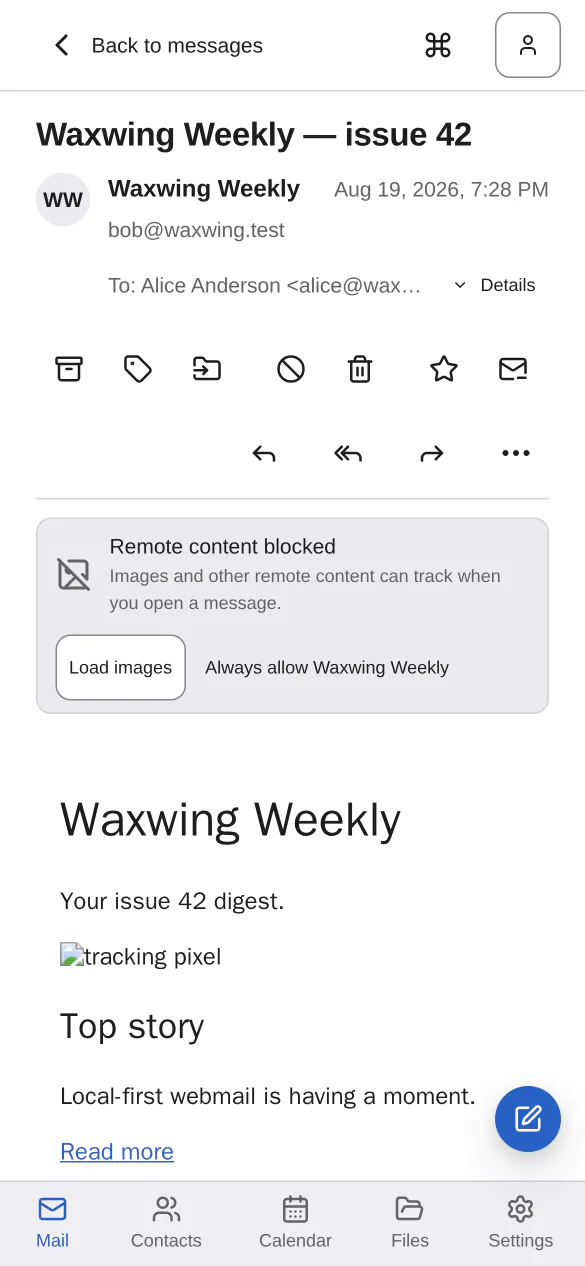
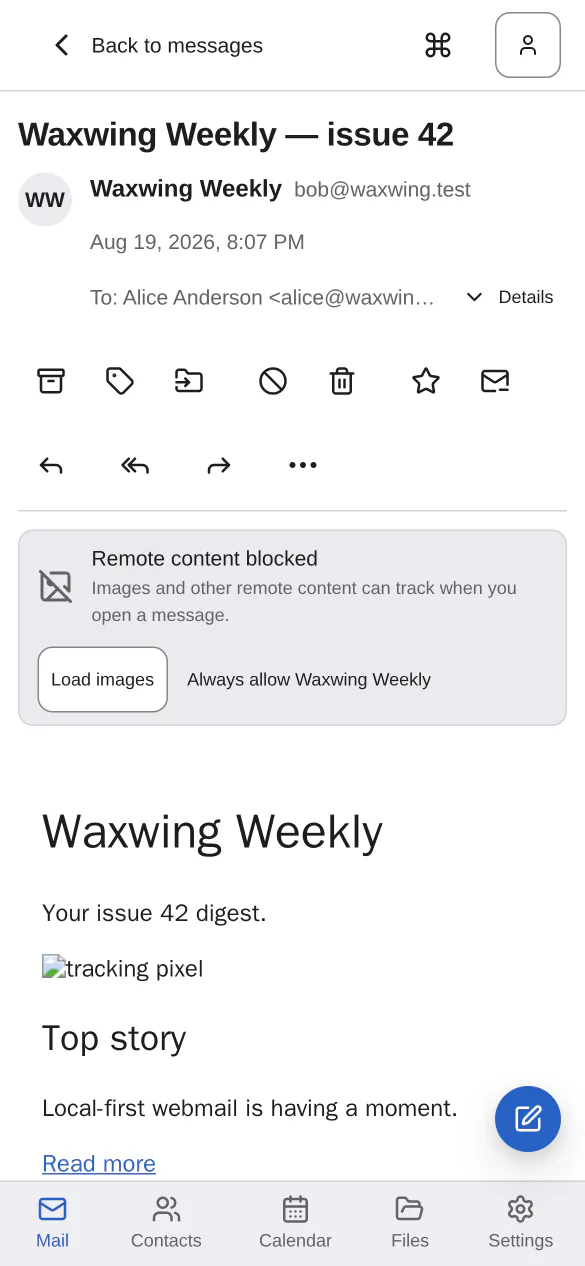
fix(web): ask how wide the PANE is, not how wide the window is
The owner asked that the phone and tablet views be checked too, not just the desktop. Photographing
a tablet for the first time — 834×1112, added to the screenshot suite as a third project — found two
defects that had been shipping unseen, and both have the same root: rules that describe a NARROW
READING PANE were keyed to a narrow VIEWPORT, and on a split layout those have never been the same
question. At 834px the reading pane is under 300px while the viewport is nowhere near a phone.

  - **The sender name broke letter by letter**: "Wax / wing / Week / ly", and the address under it
    as "bob@ / waxwi / ng.test". `overflow-wrap: anywhere` does not merely permit a mid-word break,
    it reports a min-content width of ONE CHARACTER — so the date beside it, which is
    `flex-shrink: 0`, squeezed the name into a column of letters. `break-word` keeps the longest
    word as the minimum, which is what makes a line wrap like a line. The date wraps under the name
    now rather than competing for it.
  - **The action bar took three rows.** The rule that tightens it existed and was behind
    `max-width: 39.999em`, so it fired on a phone and stayed idle on a tablet whose pane is just as
    narrow. `.paneBody` is a query container now and the reading rules ask it, so they apply to a
    narrow pane on any screen — including a 1440px desktop with the splitter dragged over, which is
    what the splitter is for. Three rows became 5 + 5 + 1.
[…]

diff --git a/apps/web/src/mail/reading.module.css b/apps/web/src/mail/reading.module.css
@@ -33,9 +33,10 @@
   overflow-wrap: break-word;
 }
 
-/* On a phone, 28 px of subject takes two lines and 95 px of a 640 px screen before the mail starts.
-   One step down is still unmistakably the headline. */
-@media (max-width: 40em) {
+/* Below ~30rem of PANE, 28px of subject takes two lines before the mail starts. One step down is
+   still unmistakably the headline — and it now applies to a narrow pane on any screen, not just to
+   a narrow screen. */
+@container waxwing-pane (max-width: 30rem) {
   .subject {
     font-size: var(--waxwing-text-xl);
   }
@@ -138,6 +139,10 @@
   justify-content: space-between;
   gap: var(--waxwing-space-3);
   align-items: baseline;
+  /* The date is `flex-shrink: 0` and, spelled out, takes most of a narrow pane's width. Allowed to
+     wrap under the name, it stops competing for the same line — a tablet's reading pane is about
+     420px, and "Aug 19, 2026, 7:39 PM" is half of it. */
+  flex-wrap: wrap;
 }
 
 /* Name, real address and (rarely) the impersonation marker, on one wrapping baseline run. */
@@ -149,10 +154,20 @@
   min-width: 0;
 }
 
+/*
+ * `break-word`, NOT `anywhere`, and the difference is the whole bug.
+ *
+ * Both break inside a word when one would otherwise overflow. But `anywhere` also reports a
+ * min-content width of a single character, so any flex sibling that refuses to shrink — here the
+ * date, which is `flex-shrink: 0` — can squeeze this box down to a column of letters. Photographed
+ * on a tablet (834px, tablet-reading.webp): "Waxwing Weekly" came out as "Wax / wing / Week / ly"
+ * and the address below it as "bob@ / waxwi / ng.test". `break-word` keeps the longest word as the
+ * minimum, which is what makes the line wrap like a line.
+ */
 .from {
   font-weight: var(--waxwing-weight-semibold);
   color: var(--waxwing-text);
-  overflow-wrap: anywhere;
+  overflow-wrap: break-word;
 }
 
 /*
@@ -182,7 +197,9 @@
 .fromAddress {
   font-size: var(--waxwing-text-sm);
   color: var(--waxwing-text-muted);
-  overflow-wrap: anywhere;
+  /* See `.from`: an address is one long word, and `anywhere` would let it be shredded rather than
+     wrapped. A genuinely over-long address still breaks, which is what `break-word` is for. */
+  overflow-wrap: break-word;
 }
 
 /*
@@ -286,20 +303,37 @@
 }
 
 /*
- * Tighter on a phone, because the grouping is a RATIO, not a pair of fixed numbers.
+ * Tighter in a narrow PANE, because the grouping is a RATIO, not a pair of fixed numbers.
  *
- * 16 px between groups and 4 px within reads well at 420 px of pane; at 390 px of viewport it cost a
- * third row — three strips of icons is worse than the two ungrouped ones it replaced. 12 px against
- * 2 px keeps the same visual relationship (six times, rather than four) and brings the six filing
- * and state actions back onto one line, with the reply group on the next.
+ * 16px between groups and 4px within reads well at 420px of pane; below that it costs a third row —
+ * three strips of icons is worse than the two ungrouped ones it replaced. 12px against 2px keeps
+ * the same visual relationship (six times, rather than four) and brings the six filing and state
+ * actions back onto one line, with the reply group on the next.
+ *
+ * Keyed to the container rather than the viewport since 2026-08-19: as a viewport rule it fired on
+ * a phone and NOT on a tablet, whose reading pane is just as narrow — which is precisely the case
+ * the tablet screenshot caught.
  */
-@media (max-width: 39.999em) {
+@container waxwing-pane (max-width: 30rem) {
+  /* 24px of margin on each side is a quarter of a narrow pane. */
+  .conversation {
+    padding-inline: var(--waxwing-space-3);
+  }
+
   .actionBar {
     gap: var(--waxwing-space-3);
   }
 
   .actionGroup {
     gap: var(--waxwing-space-hair);
+  }
+
+  /* The spacer holds the reply group against the far edge, which is right when everything fits on
+     one line and wrong the moment it does not: as a flex item that grows, it takes the whole
+     remainder of the first row and pushes the reply group onto a row of its own — a third strip of
+     icons. Below this width the groups simply run on, separated by their own gap. */
+  .actionSpacer {
+    display: none;
   }
 }
 

diff --git a/e2e/shots/tablet.spec.ts b/e2e/shots/tablet.spec.ts
@@ -1,0 +1,41 @@
+import { expect, test } from '@playwright/test'
+import { READ_SUBJECTS, seedReadMail } from '../stalwart/seed-read.mjs'
+import { shot, signIn, waitForBody, waitForCorpus } from './capture'
+
+/*
+ * Tablet project-site screenshots (834×1112 @2×). See playwright.shots.config.ts.
+ *
+ * WHY A THIRD VIEWPORT. 834px is the one width where BOTH shell breakpoints have fired in
+ * different directions: it is past 40em, so the primary navigation is the icon rail rather than a
+ * bottom bar, but short of 64em, so the folder region is still an off-canvas drawer. Neither the
+ * desktop nor the phone run photographs that combination, and it is the layout an iPad in portrait
+ * actually gets — which made it the one shape nobody was looking at.
+ *
+ * `viewports.spec.ts` already asserts that nothing overflows here. That is a different question
+ * from whether it looks right, and only a picture answers the second one.
+ */
+
+test.beforeEach(async () => {
+  await seedReadMail()
+})
+
+test('reading a message', async ({ page }) => {
+  await signIn(page)
+  // The rail is a drawer at this width, so the inbox has to be opened through the toggle — the
+  // same path a reader takes, and the reason this shot is not a narrower copy of the desktop one.
+  await page.getByRole('button', { name: 'Show folders' }).click()
+  await page.getByRole('treeitem', { name: /Inbox/ }).click()
+  await waitForCorpus(page, READ_SUBJECTS.plain)
+
+  await page.getByText(READ_SUBJECTS.newsletter, { exact: true }).click()
+  await expect(page.getByRole('heading', { name: READ_SUBJECTS.newsletter })).toBeVisible()
+  await waitForBody(page, READ_SUBJECTS.newsletter, 'Top story')
+  await shot(page, 'tablet-reading')
+})
+
+test('the folder drawer', async ({ page }) => {
+  await signIn(page)
+  await page.getByRole('button', { name: 'Show folders' }).click()
+  await expect(page.getByRole('navigation', { name: 'Folders' })).toBeVisible()
+  await shot(page, 'tablet-folders')
+})

diff --git a/e2e/playwright.shots.config.ts b/e2e/playwright.shots.config.ts
@@ -52,6 +52,20 @@ export default defineConfig({
       },
     },
     {
+      // 834×1112 — an iPad in portrait, and the only width where the two shell breakpoints
+      // disagree: past 40em (icon rail, not a bottom bar) and short of 64em (folder rail still a
+      // drawer). Neither of the other two projects photographs that combination.
+      name: 'tablet',
+      testMatch: '**/tablet.spec.ts',
+      use: {
+        ...devices['Desktop Chrome'],
+        viewport: { width: 834, height: 1112 },
+        deviceScaleFactor: 2,
+        isMobile: true,
+        hasTouch: true,
+      },
+    },
+    {
       // The phone shots are the point of this run. 390×844 is the iPhone 14/15 class viewport the
       // swipe suite already uses, and it sits below BOTH shell breakpoints (40em icon rail,
       // 64em persistent folder rail), so it photographs the bottom-nav-plus-drawer layout rather

diff --git a/apps/web/src/app/shell/shell.module.css b/apps/web/src/app/shell/shell.module.css
@@ -423,7 +423,19 @@
   background-color: var(--waxwing-surface);
 }
 
+/*
+ * A QUERY CONTAINER for whatever the pane holds. What the list and the reading view need to know is
+ * how wide THEY are, and on a split layout that has never been the window's width: at 834px the
+ * reading pane is under 300px, so every rule keyed to a phone breakpoint sat idle exactly where it
+ * was needed (photographed in tablet-reading.webp — the action bar in three rows).
+ *
+ * Declared here rather than on `.conversation` because a container query cannot style the element
+ * that declares the container, and the conversation's own padding is one of the things that has to
+ * give way in a narrow pane.
+ */
 .paneBody {
+  container-type: inline-size;
+  container-name: waxwing-pane;
   flex: 1;
   overflow: auto;
 }

diff --git a/docs/implementation-plan.md b/docs/implementation-plan.md
@@ -2593,6 +2593,7 @@ needs the SENDER's, which no server in this architecture can supply.
 | **B46** | **Open (2026-08-18, seen ONCE in a full `pnpm test` run and NOT reproduced in three consecutive re-runs): `ContactsScreen.groups.test.tsx` "creates a group through the New-group form" could not find the heading "New group".** The accessible-roles dump in the failure shows the rail rendered normally ("Address books", "Groups") but no dialog at all, so the form had not mounted when the query ran rather than having mounted wrongly. The file passes on its own (7/7) and the whole suite passed three times in a row afterwards, so this is recorded rather than diagnosed — the same posture as B44 and B45, and for the same reason: a green re-run is evidence about the re-run, not about the failure. Worth a look if it recurs; the likely shape is a lazy dialog chunk resolving after the assertion under load rather than anything in the component. | — | M4.2 | open |
 | **B47** | **Open (2026-08-18, seen ONCE in a full `verify:e2e` run and NOT reproduced): `narrow.spec.ts` "re-choosing the folder already open closes the drawer too" timed out waiting for a seeded subject.** The failure's own page snapshot is the useful part: the header, the folder title and the drawer had all rendered correctly, the grid held six SKELETON rows, and the status region read "Sync problem — retrying". So the layout was right and the envelopes never hydrated — the fixture, not the component. It is test 81 of 89, i.e. ~4 minutes into a run that has already driven Docker, a live Stalwart and an SSE stream, which is the same position and the same shape as B45. The phone project passes 8/8 on its own and the whole chain passed on the next run. Recorded rather than diagnosed: three sync-timing flakes deep in long runs (B44, B45, this) now point at the fixture's behaviour under sustained load rather than at three unrelated tests, and that is worth one investigation instead of three. | — | M4.7 | open |
 | **B48** | **FIXED (2026-08-19, reported from the live deployment `mail.hcw-orange.media/webmail`): with the own mailbox expanded, the shared accounts below it could not be reached.** The owner's rail holds his own tree (five system folders plus eight named ones, one of them expanded) and three delegated accounts; the shared sections showed their headers and an "Ordner" row with nothing under them, and the only way down was to collapse the tree above first. **Cause: the scroll containers were in the wrong boxes.** Each `FolderTree` scrolled inside itself (`overflow-y: auto` on `.tree`) while the rail — `.folderRegion`, a fixed-height flex column — scrolled not at all, and every section was a shrinkable sibling (`.container { flex: 0 1 auto }`, `.accountSection` with `min-block-size: 0` and no basis) in it. So the tall tree took the height, the rest were squeezed toward their headers, and past that the column simply ran off the bottom with nothing to scroll. **Fix:** one scroll container for the rail (`.folderScroll`, wrapping the accounts and the labels; the storage bar stays outside it, pinned below), no `overflow-y` per tree, and every section sized to content (`flex: 0 0 auto`). **Why no suite saw it:** every fixture-backed spec runs at a viewport tall enough to hold all three accounts, and Playwright's `.click()` auto-scrolls the nearest scroller — which was precisely the box that should not have had one. The regression test (`shared.spec.ts`, "a shared account is reachable with the own tree expanded") pins both halves at a 300 px viewport: exactly ONE scrollable container in the rail and it is the rail's own child, and the LAST account's Inbox has real height and is clickable. Measured against the pre-fix CSS it reports **zero** scrollable containers while the content does not fit, which is the bug stated as a number. | M4.4 | M5 (polish) | fixed |
+| **B49** | **Open (2026-08-19, found by photographing a tablet for the first time): the reading pane's action bar takes THREE rows in a narrow pane, and no amount of CSS will fix the last one.** At 834px the reading pane is under 300px wide and the bar holds eleven icon buttons — which on a touch device are **44px**, not 34px (`--waxwing-control-min` under `pointer: coarse`, WCAG 2.5.5 AAA). Eleven times 44 is 484px into 270px: two rows is the arithmetic best case, and the shipped layout managed three. Two thirds of the cause WAS fixable and is fixed — the rules that tighten the bar were keyed to the VIEWPORT (`max-width: 39.999em`), so they fired on a phone and stayed idle on a tablet whose pane is just as narrow; they are container queries now (`waxwing-pane` on `.paneBody`), and the conversation's inline padding gives way with them. That took it from three full rows to 5 + 5 + 1. **What remains needs a decision, not CSS:** the honest fix is Apple Mail's — keep four or five actions and move the rest into the `⋯` menu below a threshold. That menu currently holds only secondary items (snooze, forward-as-attachment, print, source), so hiding buttons with CSS would make real actions unreachable; the items have to be ADDED to the menu at the same width they leave the bar, which is a JS decision about which four actions are primary. | M1.8 | M5 (polish) | open |
 | D5 | Design-system sign-off (M1.1 doc: look, tokens, motion) before broad UI build-out | Heiko | during M1.1 | **signed off 2026-07-10.** Owner approved after two revisions: calmer accent (orange → blue `#2f6fe0`/`#5e93f0`, warm colors reserved for signals) and responsive compact controls (34px pointer / 44px touch via `--waxwing-control-min`, tightened spacing) — both WCAG-AA-verified. Broad UI build-out (M1.4+) unblocked. |
 
 ## 14. Appendix — Requirements Coverage Matrix
